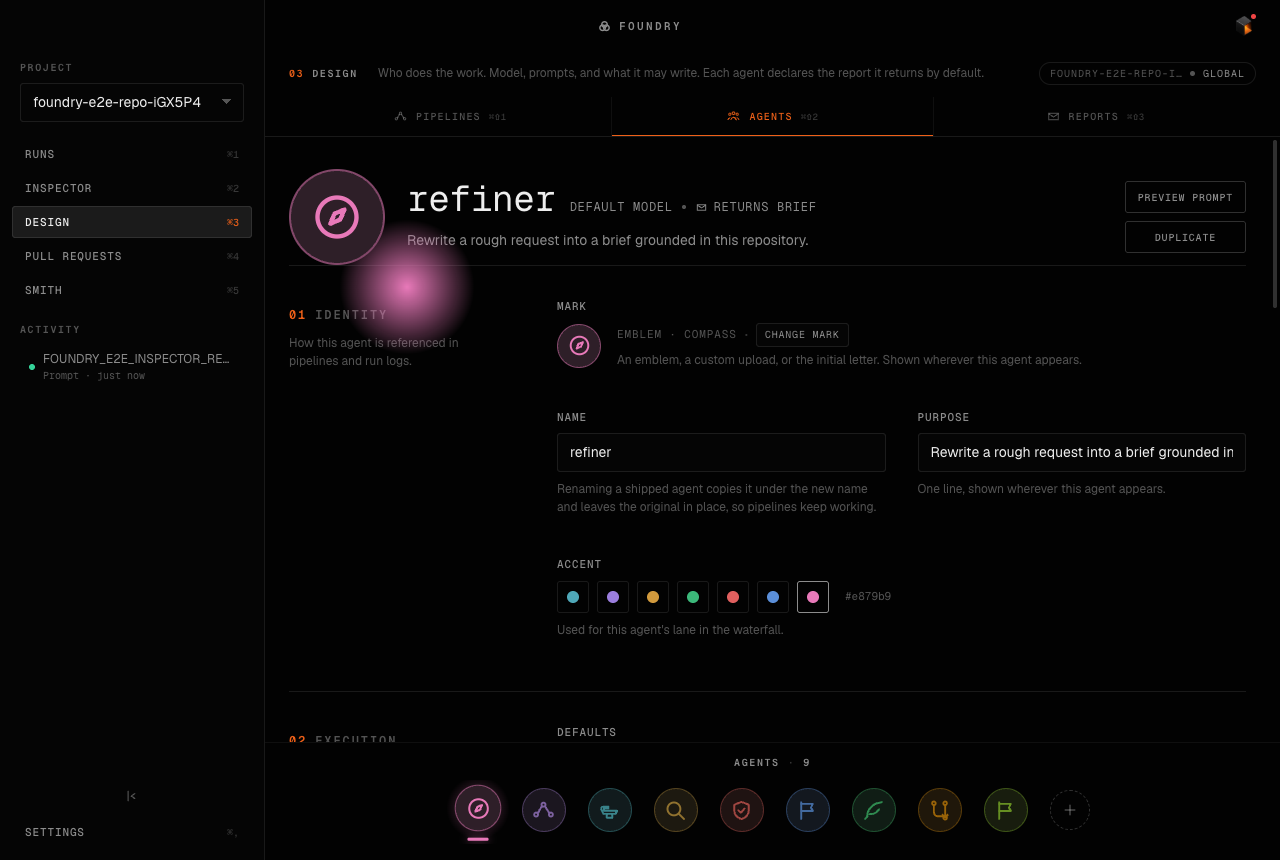
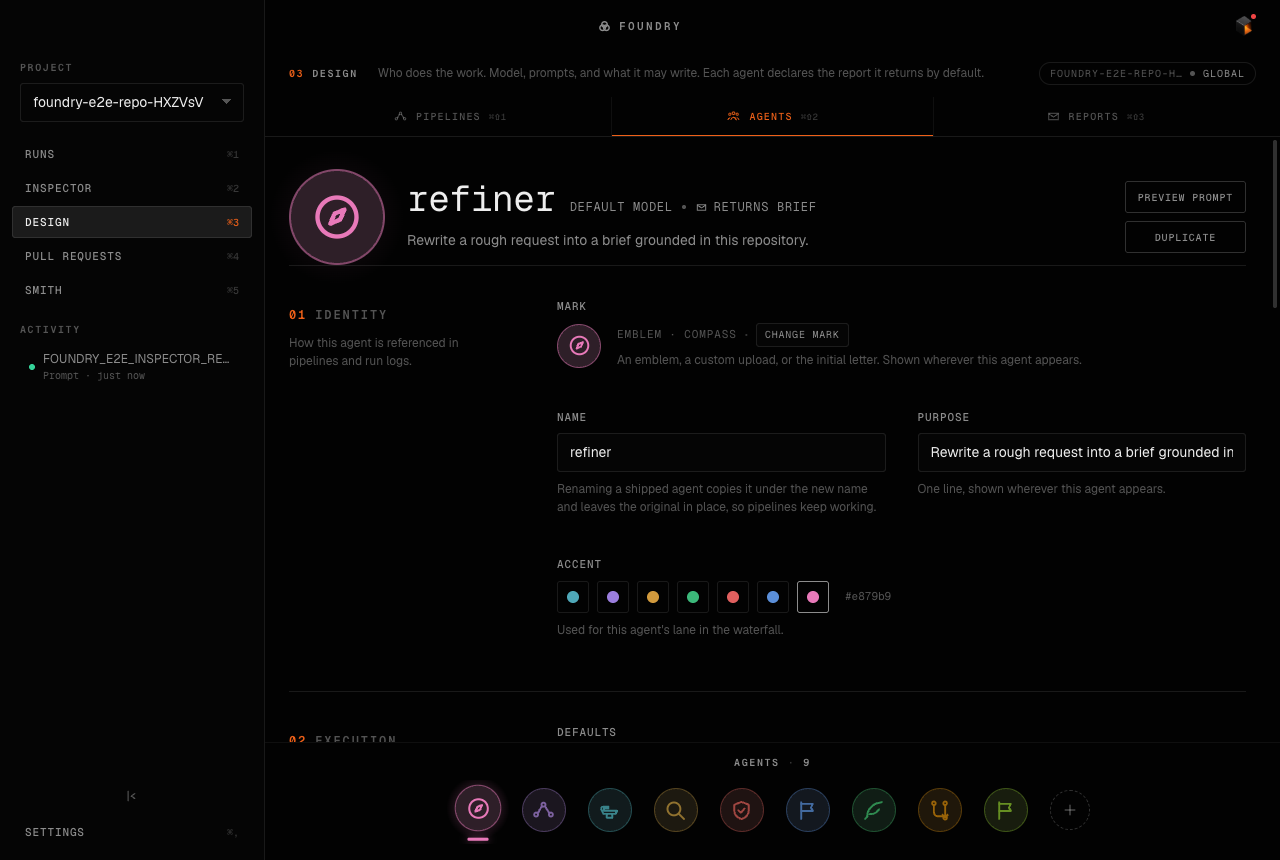
fix(roster): calc-center hero glow and refresh live shots
Inset/margin centering still left a soft bloom bias under
animations:disabled. Pin the 140px glow with calc(50% - 70px),
set a base opacity so cancelled breath stays soft, and replace
the Electron screenshots on the PR.

Changed region(s): [[0.25, 0.2419, 0.375, 0.4233], [0.125, 0.0907, 0.1562, 0.1209]]

diff --git a/apps/desktop/src/renderer/components/roster/AgentHero.module.css b/apps/desktop/src/renderer/components/roster/AgentHero.module.css
@@ -24,26 +24,30 @@
   justify-content: center;
 }
 
-/* Center with inset + margin:auto — Framer Motion / Playwright
-   animations:'disabled' clears transform, which broke translate(-50%,-50%). */
 .glow {
+  /* Center with calc — never transform. Framer Motion / Playwright
+     animations:'disabled' clear transforms; translate(-50%,-50%) used to
+     leave the radial's top-left on the mark center (bloom down-right).
+     Base opacity keeps the bloom soft when breath animation is cancelled. */
   position: absolute;
-  inset: 0;
+  left: calc(50% - 70px);
+  top: calc(50% - 70px);
   width: 140px;
   height: 140px;
-  margin: auto;
   border-radius: var(--r-full);
   pointer-events: none;
+  z-index: 0;
+  opacity: 0.1;
   animation: hero-breath 4.5s ease-in-out infinite;
 }
 
 @keyframes hero-breath {
   0%,
   100% {
-    opacity: 0.06;
+    opacity: 0.08;
   }
   50% {
-    opacity: 0.13;
+    opacity: 0.14;
   }
 }
 
